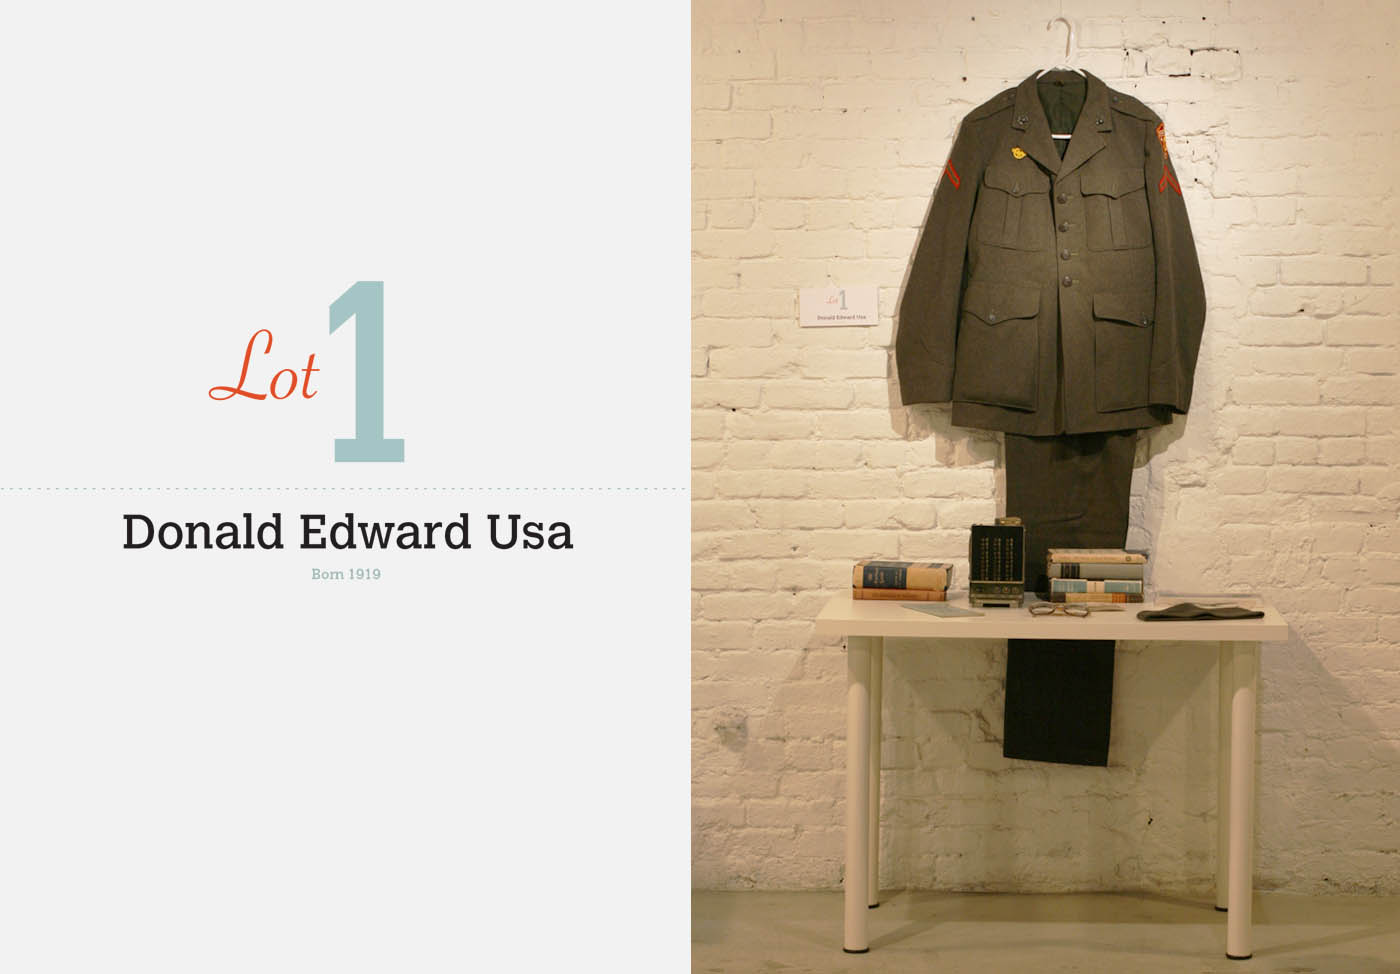
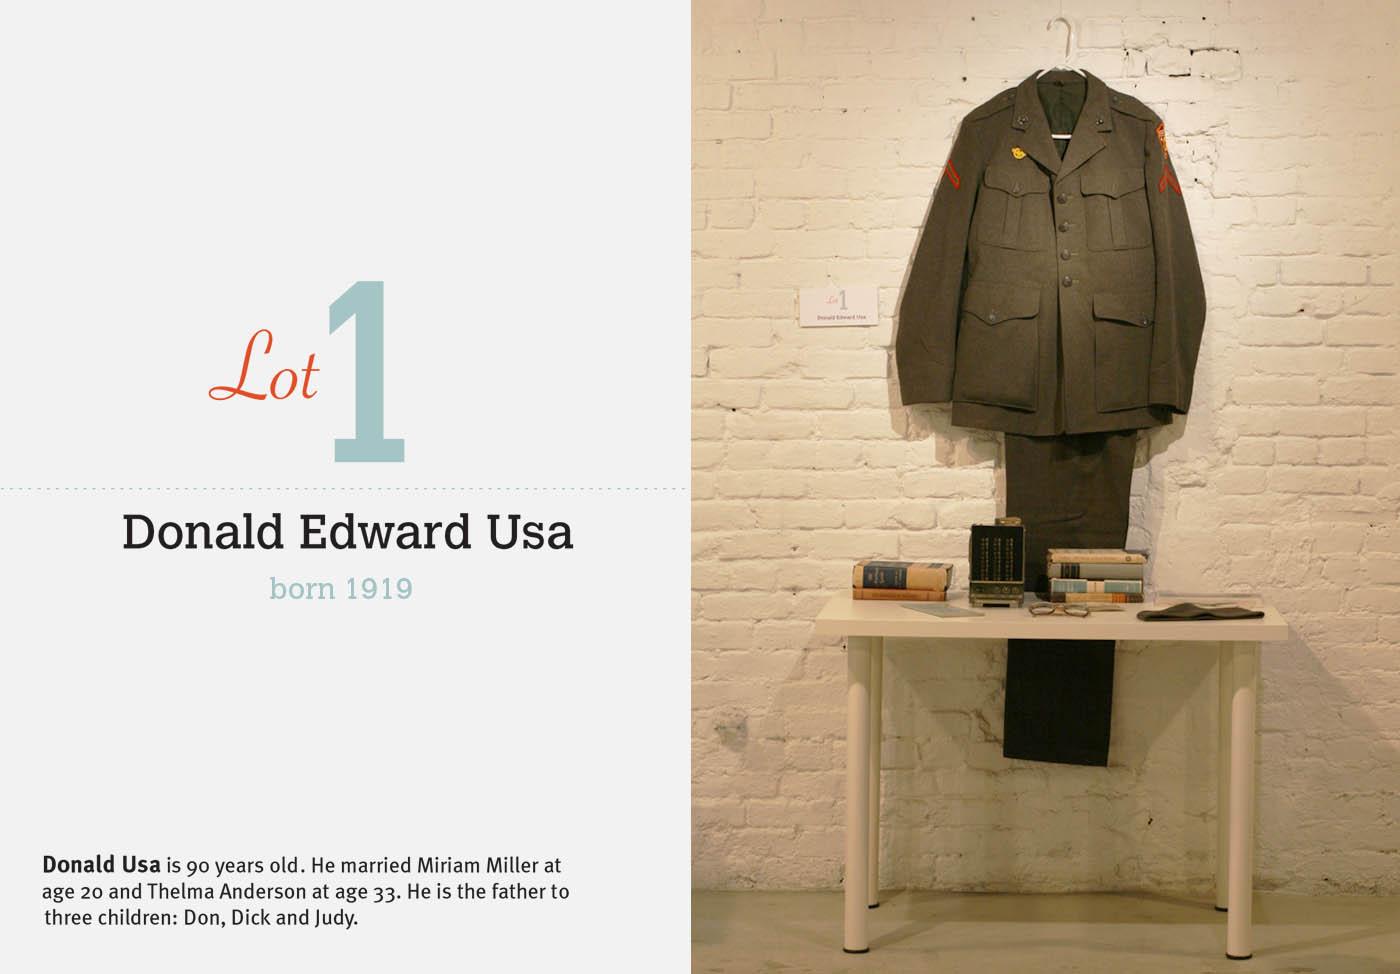
design/content updates

Changed region(s): [[0.0307, 0.8624, 0.3993, 0.9548], [0.1843, 0.5852, 0.3071, 0.616]]

diff --git a/projects/16/index.html b/projects/16/index.html
@@ -15,63 +15,58 @@ sub-title: framing the artifacts of youth
             <div class="12u">
                 <slideshow>
 
+                    <slide image="images/16/pic00.jpg"></slide>
                     <slide image="images/16/pic02.jpg"></slide>
                     <slide image="images/16/pic01.jpg"></slide>
                     <slide image="images/16/pic03.jpg"></slide>
-                    <slide image="images/16/pic04.jpg"
-                        text="#1 EG: Compromising a Relic to Preserve a Memory"
-                    ></slide>
-                    <slide image="images/16/pic05.jpg"
-                        text="#2 BB: Journal Page Projection"
-                    ></slide>
-                    <slide image="images/16/pic06.jpg"
-                        text="#3 EG: Camping I, Camping II"
-                    ></slide>
-                    <slide image="images/16/pic07.jpg"
-                        text="#4 BB: Laura Drank a Bottle of Robitussin"
-                    ></slide>
-                    <slide image="images/16/pic08.jpg"
-                        text="#5 EG: Shelf Life For Satire"
-                    ></slide>
-                    <slide image="images/16/pic09.jpg"
-                        text="#6 BB: Poem Projection"
-                    ></slide>
-                    <slide image="images/16/pic10.jpg"
-                        text="#7 EG: I'm Going to Grandma's"
-                    ></slide>
-                    <slide image="images/16/pic11.jpg"
-                        text="#8 BB: Blood Sisters"
-                    ></slide>
-                    <slide image="images/16/pic12.jpg"
-                        text="#9 EG: Compromising a Memory to Preserve a Relic"
-                    ></slide>
-                    <slide image="images/16/pic13.jpg"
-                        text="#10 BB: Sister"
-                    ></slide>
-                    <slide image="images/16/pic14.jpg"
-                        text="#11 EG: We Go Camping"
-                    ></slide>
-                    <slide image="images/16/pic15.jpg"
-                        text="#12 BB: You Can't Remember What You Choose to Forget"
-                    ></slide>
-                    <slide image="images/16/pic16.jpg"
-                        text="#13 EG: Enmity &ge; Amity"
-                    ></slide>
-                    <slide image="images/16/pic17.jpg"
-                        text="#14 BB: Dark Side"
-                    ></slide>
-                    <slide image="images/16/pic18.jpg"
-                        text="#15 BB &amp; EG: Performance"
-                    ></slide>
+                    <slide image="images/16/pic04-1.jpg"></slide>
+                    <slide image="images/16/pic04-2.jpg"></slide>
+                    <slide image="images/16/pic04-3.jpg"></slide>
+                    <slide image="images/16/pic05-1.jpg"></slide>
+                    <slide image="images/16/pic05-2.jpg"></slide>
+                    <slide image="images/16/pic06-1.jpg"></slide>
+                    <slide image="images/16/pic06-2.jpg"></slide>
+                    <slide image="images/16/pic06-3.jpg"></slide>
+                    <slide image="images/16/pic07-1.jpg"></slide>
+                    <slide image="images/16/pic07-2.jpg"></slide>
+                    <slide image="images/16/pic07-3.jpg"></slide>
+                    <slide image="images/16/pic08-1.jpg"></slide>
+                    <slide image="images/16/pic08-2.jpg"></slide>
+                    <slide image="images/16/pic08-3.jpg"></slide>
+                    <slide image="images/16/pic08-4.jpg"></slide>
+                    <slide image="images/16/pic09-1.jpg"></slide>
+                    <slide image="images/16/pic09-2.jpg"></slide>
+                    <slide image="images/16/pic10-1.jpg"></slide>
+                    <slide image="images/16/pic10-2.jpg"></slide>
+                    <slide image="images/16/pic10-3.jpg"></slide>
+                    <slide image="images/16/pic11-1.jpg"></slide>
+                    <slide image="images/16/pic11-2.jpg"></slide>
+                    <slide image="images/16/pic11-3.jpg"></slide>
+                    <slide image="images/16/pic12-1.jpg"></slide>
+                    <slide image="images/16/pic12-2.jpg"></slide>
+                    <slide image="images/16/pic13-1.jpg"></slide>
+                    <slide image="images/16/pic13-2.jpg"></slide>
+                    <slide image="images/16/pic13-3.jpg"></slide>
+                    <slide image="images/16/pic14-1.jpg"></slide>
+                    <slide image="images/16/pic14-2.jpg"></slide>
+                    <slide image="images/16/pic14-3.jpg"></slide>
+                    <slide image="images/16/pic15-1.jpg"></slide>
+                    <slide image="images/16/pic15-2.jpg"></slide>
+                    <slide image="images/16/pic15-3.jpg"></slide>
+                    <slide image="images/16/pic16-1.jpg"></slide>
+                    <slide image="images/16/pic16-2.jpg"></slide>
+                    <slide image="images/16/pic16-3.jpg"></slide>
+                    <slide image="images/16/pic17-1.jpg"></slide>
+                    <slide image="images/16/pic18-1.jpg"></slide>
                     <slide video="https://player.vimeo.com/video/8935919"></slide>
                     <slide video="https://player.vimeo.com/video/8941463"></slide>
                     <slide video="https://player.vimeo.com/video/8935786"></slide>
                     <slide video="https://player.vimeo.com/video/8936043"></slide>
-                    <slide image="images/16/pic19.jpg"><p>#16 BB &amp; EG: Website</p></slide>
-                    <slide image="images/16/pic20.jpg"><p>#16 BB &amp; EG: Website</p></slide>
-                    <slide image="images/16/pic21.jpg"><p>#16 BB &amp; EG: Website</p></slide>
-                    <slide image="images/16/pic22.jpg"><p>#16 BB &amp; EG: Website</p></slide>
-                    <slide image="images/16/pic23.jpg"><p>#16 BB &amp; EG: Website</p></slide>
+                    <slide image="images/16/pic19-1.jpg"></slide>
+                    <slide image="images/16/pic20.jpg"></slide>
+                    <slide image="images/16/pic21.jpg"></slide>
+                    <slide image="images/16/pic22.jpg"></slide>
+                    <slide image="images/16/pic23.jpg"></slide>
 
                 </slideshow>
             </div>
@@ -96,7 +91,7 @@ sub-title: framing the artifacts of youth
             <div class="8u 12u(mobile) important(mobile)" id="content">
                 <article id="main">
                     <p class="left">
-                    <em>16</em> was an examination of youth and the adult society it reflects as pieces from the past were repurposed and 'framed' through an adult perspective. The process of putting on this show was ultimately a repetition of how the original artwork was made–debuting an artwork was eerily similar to coming of age as a teenager.
+                    <em>16</em> was an examination of youth and the adult society it reflects as items from the past of two women were repurposed and 'framed' through their adult perspectives. The process of putting on this show was ultimately a repetition of how the original artifacts were made–debuting an artwork was eerily similar to coming of age as a teenager.
                     </p>
                 </article>
             </div>

diff --git a/projects/the-usa-family-estate/index.html b/projects/the-usa-family-estate/index.html
@@ -12,8 +12,8 @@ sub-title: a life-sized diorama of america's 2008 economic crisis
 
 <div class="wrapper style2">
     <slideshow>
-        <slide image="images/theusafamilyestate/pic01.jpg"
-            text="Live Worms Gallery, North Beach, San Francisco"></slide>
+        <slide image="images/theusafamilyestate/pic00.jpg"></slide>
+        <slide image="images/theusafamilyestate/pic01.jpg"></slide>
         <slide image="images/theusafamilyestate/pic02.jpg"></slide>
         <slide image="images/theusafamilyestate/pic03.jpg"></slide>
         <slide image="images/theusafamilyestate/pic04.jpg"
@@ -152,6 +152,7 @@ sub-title: a life-sized diorama of america's 2008 economic crisis
         ></slide>
         <slide image="images/theusafamilyestate/pic71.jpg"
         ></slide>
+        <slide video="https://player.vimeo.com/video/8924912" text="The 11th Hour"></slide>
         <slide image="images/theusafamilyestate/pic72.jpg"
         ></slide>
         <slide image="images/theusafamilyestate/pic73.jpg"
@@ -178,16 +179,16 @@ sub-title: a life-sized diorama of america's 2008 economic crisis
                     </p>
 
                     <p class="left">
-                    The Usa Family Estate was a life-sized diorama of America's economic crisis, with a storyline told through the belongings of a fictitious family. Older generations' items were durable and made of quality materials. Younger generations' items mirrored their elders but were cheap in quality and made in China.
+                    The Usa Family Estate was a life-sized diorama of America's economic crisis, with a storyline told through the belongings of a fictitious family. Older generations' items were durable and made of quality materials. Younger generations' items mirrored their elders but were of cheap quality and made in China.
                     </p>
 
                     <p class="left">
-                    This work traced the evolution of modern, foreign-made disposable goods which represented the country's economic turning point.
+                    This work traced the evolution of modern, foreign-made disposable goods which accompanied the country's economic turning point.
                     </p>
 
-                    <p class="left">
+                    <!--<p class="left">
                     Throughout the night, an original score and video by <a href="http://scottweiser.com/" target="blank">Scott Weiser</a> was presented.
-                    </p>
+                    </p>-->
                 </article>
             </div>
         </div>

diff --git a/projects/justification-for-grooming/index.html b/projects/justification-for-grooming/index.html
@@ -15,7 +15,8 @@ sub-title: building a religion for beauty
         <div class="row 200%">
             <div class="12u">
                 <slideshow>
-                    <slide image="images/justificationforgrooming/pic01.jpg"text="Moxie Parlour, Market St. San Francisco (Temple)"></slide>
+                    <slide image="images/justificationforgrooming/pic00.jpg" text="Moxie Parlour, Market St. San Francisco (Temple)"></slide>
+                    <slide image="images/justificationforgrooming/pic01.jpg" text="Moxie Parlour, Market St. San Francisco (Temple)"></slide>
                     <slide image="images/justificationforgrooming/pic02.jpg"></slide>
                     <slide image="images/justificationforgrooming/pic18.jpg"
                         text="Temple room"
@@ -23,7 +24,7 @@ sub-title: building a religion for beauty
                     <slide image="images/justificationforgrooming/pic20.jpg"
                         text="Temple room"
                     ></slide>
-                    <slide image="images/justificationforgrooming/pic03.jpg"text="I. The Pretty Little Things and the People Who Adore Them (Saints)"></slide>
+                    <slide image="images/justificationforgrooming/pic03.jpg" text="I. The Pretty Little Things and the People Who Adore Them (Saints)"></slide>
                     <slide image="images/justificationforgrooming/pic04.jpg"
                         text="I. The Pretty Little Things and the People Who Adore Them (Saints) detail"
                     ></slide>
@@ -96,7 +97,7 @@ sub-title: building a religion for beauty
                     </p>
 
                     <p class="left">
-                    <em>Justification for Grooming</em> was installed into the stations of a hair salon and was displayed for one night. At 7:29pm visitors were invited to take a cut of hair in a communal ceremony.
+                    <em>Justification for Grooming</em> was installed into a hair salon and was displayed for one night. At 7:29pm visitors were invited to take a cut of hair in a sacramental ceremony.
                     </p>
                 </article>
             </div>

diff --git a/index.html b/index.html
@@ -18,7 +18,7 @@ layout: main
                 <h3><a href="projects/lost-specimens">lost specimens</a></h3>
             </header>
             <p><em>{ in progress }</em></p>
-            <p>A meditation on animal extinction<br><br><br></p>
+            <p>A reflection on animal extinction<br><br><br></p>
         </article>
 
         <article>
@@ -27,7 +27,7 @@ layout: main
                 <h3><a href="projects/ruin-me">ruin me</a></h3>
             </header>
             <p><em>2011</em></p>
-            <p>artwork was only finished once destroyed by visitors on the opening night</p>
+            <p>The artwork was only finished once destroyed by visitors on the opening night</p>
         </article>
 
         <article>
@@ -36,7 +36,7 @@ layout: main
                 <h3><a href="projects/ekotable">ekotable</a></h3>
             </header>
             <p><em>2010</em></p>
-            <p>a business that helped consumers find locally-made items<br><br></p>
+            <p>A business that helped consumers find locally-made items<br><br></p>
         </article>
 
         <article>
@@ -45,7 +45,7 @@ layout: main
                 <h3><a href="projects/the-usa-family-estate">the usa family estate</a></h3>
             </header>
             <p><em>2009</em></p>
-            <p>a life-sized diorama of america's 2008 economic crisis<br><br></p>
+            <p>A life-sized diorama of america's 2008 economic crisis<br><br></p>
         </article>
 
         <article>
@@ -63,7 +63,7 @@ layout: main
                 <h3><a href="projects/justification-for-grooming">justification for grooming</a></h3>
             </header>
             <p><em>2007</em></p>
-            <p>building a religion for beauty<br><br><br></p>
+            <p>Building a religion for beauty<br><br><br></p>
         </article>
 
         <article>

diff --git a/templates/slideshow.html b/templates/slideshow.html
@@ -18,8 +18,8 @@
   <ol class="unstyled" ng-if="mobile">
     <li ng-repeat="slide in slides">
       <div ng-if="slide.video" class="video-wrapper">
-        <iframe class="appear" ng-if="slide.youtube" width="560" height="315" data-src="{{ slide.video }}" frameborder="0" allowfullscreen></iframe>
-        <iframe class="appear" ng-if="slide.vimeo" data-src="{{ slide.video }}" width="500" height="375" frameborder="0" webkitallowfullscreen mozallowfullscreen allowfullscreen></iframe>
+        <iframe class="appear" ng-if="slide.youtube" width="800" height="600" data-src="{{ slide.video }}" frameborder="0" allowfullscreen></iframe>
+        <iframe class="appear" ng-if="slide.vimeo" data-src="{{ slide.video }}" width="800" height="600" frameborder="0" webkitallowfullscreen mozallowfullscreen allowfullscreen></iframe>
       </div>
       <img class="appear img-responsive" ng-if="slide.image" data-src="{{ slide.image }}" alt="">
     </li>

diff --git a/projects/the-sentient-painting/index.html b/projects/the-sentient-painting/index.html
@@ -14,7 +14,8 @@ sub-title: 3 artists created 1 painting over 2 days
     <article id="main" class="container special">
         <span class="gifimage"><img src="http://eringallup.info/sentient/timelapse.gif" alt=""  width="50%"/></span>
         <slideshow>
-            <slide image="images/thesentientpainting/pic01.jpg"text="Live Worms Gallery, North Beach, San Francisco"></slide>
+            <slide image="images/thesentientpainting/pic00.jpg"></slide>
+            <slide image="images/thesentientpainting/pic01.jpg"></slide>
             <slide image="images/thesentientpainting/pic02.jpg"></slide>
             <slide image="images/thesentientpainting/pic03.jpg"></slide>
             <slide image="images/thesentientpainting/pic04.jpg"

diff --git a/css/app.css b/css/app.css
@@ -21,15 +21,15 @@
   padding-bottom: 56.25%; /* 16:9 */
   padding-top: 25px;
   height: 0;
-  background-color: #efefef;
+  /*background-color: #efefef;*/
 }
 
 .video-wrapper iframe {
-  position: absolute;
+  /*position: absolute;
   top: 0;
   left: 0;
   width: 100%;
-  height: 100%;
+  height: 100%;*/
 }
 
 .lightbox {
